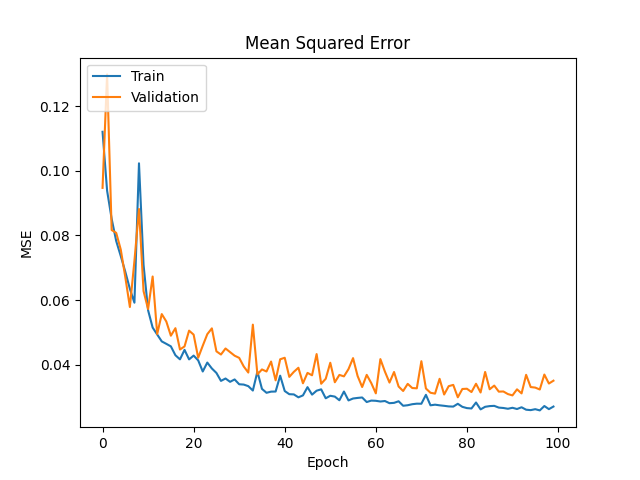
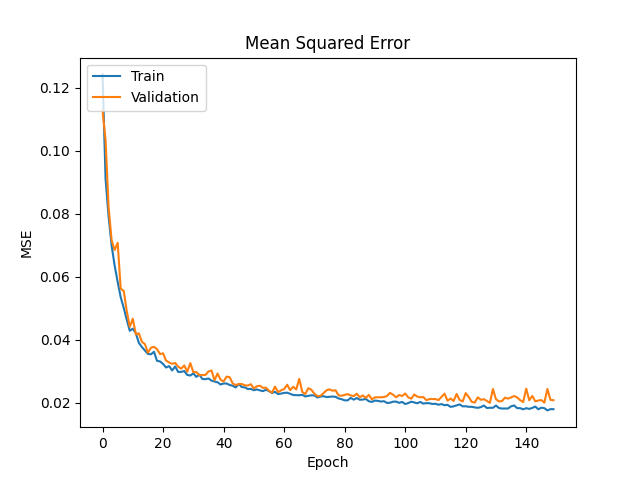
new trial

diff --git a/NN/main_and_roi.py b/NN/main_and_roi.py
@@ -35,12 +35,12 @@ for gpu in gpus:
 TRAINING = True
 
 # Choose the name of the saved dataset
-MODEL_NAME = "unet_100epochs.keras"
-TRAINING_HISTORY = "training_history.pickle"
+MODEL_NAME = "unet_100epochs2.keras"
+TRAINING_HISTORY = "training_history2.pickle"
 
 # Training hyperparameters
 BATCH_SIZE = 3
-EPOCHS = 100
+EPOCHS = 150
 LRELU_ALPHA = 0.01 # alpha coefficient of LeakyReLU
 L2REG = 0.0001 # kernel regularizer coefficient
 
@@ -53,23 +53,23 @@ EPSILON=1e-08
 # ReduceLROnPlateau hyperparameters
 RLR_FACTOR = 0.2
 RLR_PATIENCE = 5
-RLR_MIN = 0.001
+RLR_MIN = 0.00001
 
 # Chose the fixed image-label pair you want to train on
 
-#fixed_image_path = "/mnt/c/Users/jacop/Desktop/DL_Project/1124.jpg"
-#fixed_label_path = "/mnt/c/Users/jacop/Desktop/DL_Project/1124.txt"
+fixed_image_path = "/mnt/c/Users/jacop/Desktop/DL_Project/1124.jpg"
+fixed_label_path = "/mnt/c/Users/jacop/Desktop/DL_Project/1124.txt"
 
-fixed_image_path = "/mnt/c/Users/vitto/Desktop/DL project/DL project github/1124.jpg"
-fixed_label_path = "/mnt/c/Users/vitto/Desktop/DL project/DL project github/1124.txt"
+# fixed_image_path = "/mnt/c/Users/vitto/Desktop/DL project/DL project github/1124.jpg"
+# fixed_label_path = "/mnt/c/Users/vitto/Desktop/DL project/DL project github/1124.txt"
 
 
 ######################################## Importing Dataset #######################################################
 print("Started dataset loading...")
 
-#input_path = "/mnt/c/Users/jacop/Desktop/DL_Project/processed_dataset/" #if in wsl
+input_path = "/mnt/c/Users/jacop/Desktop/DL_Project/processed_dataset/" #if in wsl
 #input_path = "C:/Users/jacop/Desktop/DL_Project/processed_dataset/"  # if in windows
-input_path = "/mnt/c/Users/vitto/Desktop/DL project/DL project github/processed_dataset/" #if in wsl
+#input_path = "/mnt/c/Users/vitto/Desktop/DL project/DL project github/processed_dataset/" #if in wsl
 #input_path = "C:/Users/vitto/Desktop/DL project/DL project github/processed_dataset/"  # if in windows
 
 
@@ -407,6 +407,8 @@ plt.close()
 print(f"Plot saved as {os.getcwd()}'/loss.png'")
 
 
+######################################## RESULTS #######################################################
+
 # =========== Model Testing =========== #
 # Evaluate the model on the test dataset
 print("Evaluate on test data")
@@ -414,7 +416,7 @@ results = unet.evaluate(test_images_dataset)
 print("Test loss, Test accuracy:", results)
 
 
-# plotting a deformation example from the U-Net output
+# =========== Plotting from U-Net =========== #
 test_image_list = list(test_images_only)
 test_image = test_image_list[0]
 
@@ -453,7 +455,7 @@ plt.close()
 print(f"Plot saved as {os.getcwd()}'/unet_deformation_example.png'")
 
 
-# plotting a deformation example by extracting the displacement tensor
+# =========== Plotting via displacement tensor =========== #
 displacement_model = tf.keras.Model(inputs=unet.input, outputs=unet.get_layer('disp').output)
 displacement_model_output = displacement_model.predict(test_feed)
 
@@ -488,6 +490,39 @@ plt.savefig('tensor_deformation_example.png')
 plt.close()
 print(f"Plot saved as {os.getcwd()}'/tensor_deformation_example.png'")
 
+# =========== Plotting inverse transformation =========== #
+
+inverse_transform = -displacement_model_output
+# expand the fixed_image to match displacement_model_output dimensions
+fixed_image_expanded = np.expand_dims(fixed_image, axis=0)
+fixed_image_expanded = np.expand_dims(fixed_image_expanded, axis=3)
+
+deformed_image = tfa.image.dense_image_warp(fixed_image_expanded, -inverse_transform)
+
+fig, axs = plt.subplots(2, 2, figsize=(10, 10))
+fig.suptitle("Warping via displacement tensor") 
+axs[0, 0].imshow(fixed_image, cmap='gray')
+axs[0, 0].set_title('Fixed Image')
+
+axs[0, 1].imshow(test_image, cmap='gray')
+axs[0, 1].set_title('Moving Image')
+
+axs[1, 0].imshow(deformed_image[0], cmap='gray')
+axs[1, 0].set_title('Deformed Image')
+
+axs[1, 1].imshow(test_image, cmap='gray')
+axs[1, 1].imshow(deformed_image[0], alpha=0.4)
+axs[1, 1].set_title('Overlapping Image')
+
+# Remove axis labels and ticks
+for ax in axs.flat:
+    ax.label_outer()
+
+# Adjust spacing between subplots
+plt.tight_layout()
+plt.savefig('inverse_deformation_example.png')
+plt.close()
+print(f"Plot saved as {os.getcwd()}'/inverse_deformation_example.png'")
 
 # =========== Adding Landmarks and ROI =========== #
 
@@ -512,38 +547,33 @@ def plot_with_landmarks_and_ROI(image, landmarks):
 
     # Show the plot
     #plt.show()
-    plt.savefig('plot_landm.png')
+   
     
 plot_with_landmarks_and_ROI(fixed_image, fixed_labels)
+plt.savefig('plot_landm.png')
 
-def deform_landmarks(landmarks, displacement_tensor):
-    """
-    Deform landmarks based on a displacement tensor.
 
-    Args:
-        landmarks (np.ndarray): An array of shape (N, 2) containing landmark coordinates.
-        displacement_tensor (np.ndarray): The displacement tensor with shape (1, H, W, 2).
 
-    Returns:
-        np.ndarray: Deformed landmarks based on the displacement tensor.
-    """
-    deformed_landmarks = []
+def apply_deformation_tensor(coords, displacement_tensor):
+    # Convert the coordinates to a list of tuples
+    coords = [(int(coords[i]), int(coords[i+1])) for i in range(0, len(coords), 2)]
 
-    for i in range(0, len(landmarks), 2):
-        x, y = landmarks[i], landmarks[i + 1]
+    # Reshape the displacement tensor
+    displacement_tensor = displacement_tensor[0]  # extract first element of batch
+    displacement_tensor = np.reshape(displacement_tensor, (256, 256, 2))
 
-        # Get the displacement values from the displacement tensor
-        disp_x = displacement_tensor[0, int(y), int(x), 0]
-        disp_y = displacement_tensor[0, int(y), int(x), 1]
+    # Compute the displacement vector for each point
+    displacement_vectors = np.zeros_like(coords)
+    for i in range(len(coords)):
+        x, y = coords[i]
+        displacement_vectors[i] = displacement_tensor[x, y]
+        
+    # Add the displacement vectors to the original coordinates
+    deformed_coords = coords + displacement_vectors
 
-        # Apply displacement to the landmarks
-        new_x = x + disp_x
-        new_y = y + disp_y
+    return deformed_coords.flatten()
 
-        deformed_landmarks.extend([new_x, new_y])
-
-    return np.array(deformed_landmarks)
-
-deformed_landmarks= deform_landmarks(fixed_labels, displacement_model_output)
+deformed_landmarks= apply_deformation_tensor(fixed_labels, -displacement_model_output)
 
 plot_with_landmarks_and_ROI(test_image, deformed_landmarks)
+plt.savefig('plot_landm_def.png')

diff --git a/Readme.MD b/Readme.MD
@@ -27,16 +27,24 @@ The 14 landmarks to be found by this network are listed below, ordered according
 
 ## Repository organization
 * **preprocessing_scripts**: contains the preprocessor script: use it if you are willing to work with the original dataset. It will find all the matching image-label pairs and sort them into three categories (train, test, val).
-* **NN**: contains the network, the pre-trained model and its configuration file.
+* **NN**: contains the Network, the pre-trained model and its training history. It also contains the image-label pair chosen as the fixed image during training.
+* **Outputs**: contains the Loss and Metric plots of the pre-trained model, along with some output examples
   
 ## Dataset structure
 The main directory needs two subfolders called "images" and "labels" respectively. Each image in the dataset has a corresponding text file with the same name as the image file and the ".txt" extension.
 
 ## Usage
+The script runs in python 3.10.12, please use this version to assure compatibility, expecially if you wish to use the pre-trained model.
+
 First run the following command to ensure that all the required packages are installed and up to date: `pip install -r .\requirements.txt`.
 ### Preprocessing
-Based on which dataset you decide to use, you may need some preliminary work:
-* **If working with the original dataset**: Extract the dataset and download *preprocessing_scripts/dataset_preprocessor.py*. Run the python script, it will create the processed and rescaled dataset in your current working directory, ready to be fed to the CNN.
+**If working with the original dataset**, you need to pass it to the preprocessor before feeding it to the NN.
+Extract the dataset and download *preprocessing_scripts/dataset_preprocessor.py*. Run the python script, it will create the processed and rescaled dataset in your current working directory. You can choose the minimum size of the images and the train/test/val split percentage by editing the corresponding Parameters in the script.
+
+If you are instead working with your personal dataset, please make sure that the set you feed to the network has the following structure:
+Two directories, "images" and "labels", each containing three subfolders named "train", "test" and "val".
+The images should be 256x256 px, and the labels should be a tab-separated .txt file containing a header and then 14 rows with the index of the landmark, its X coordinate and its Y coordinate. Corresponding images and labels should have the same name.
+An example of the correct formatting for images and labels can be found as the "fixed image/label" in the *NN* directory of this repository.
 
 ### Network
 
